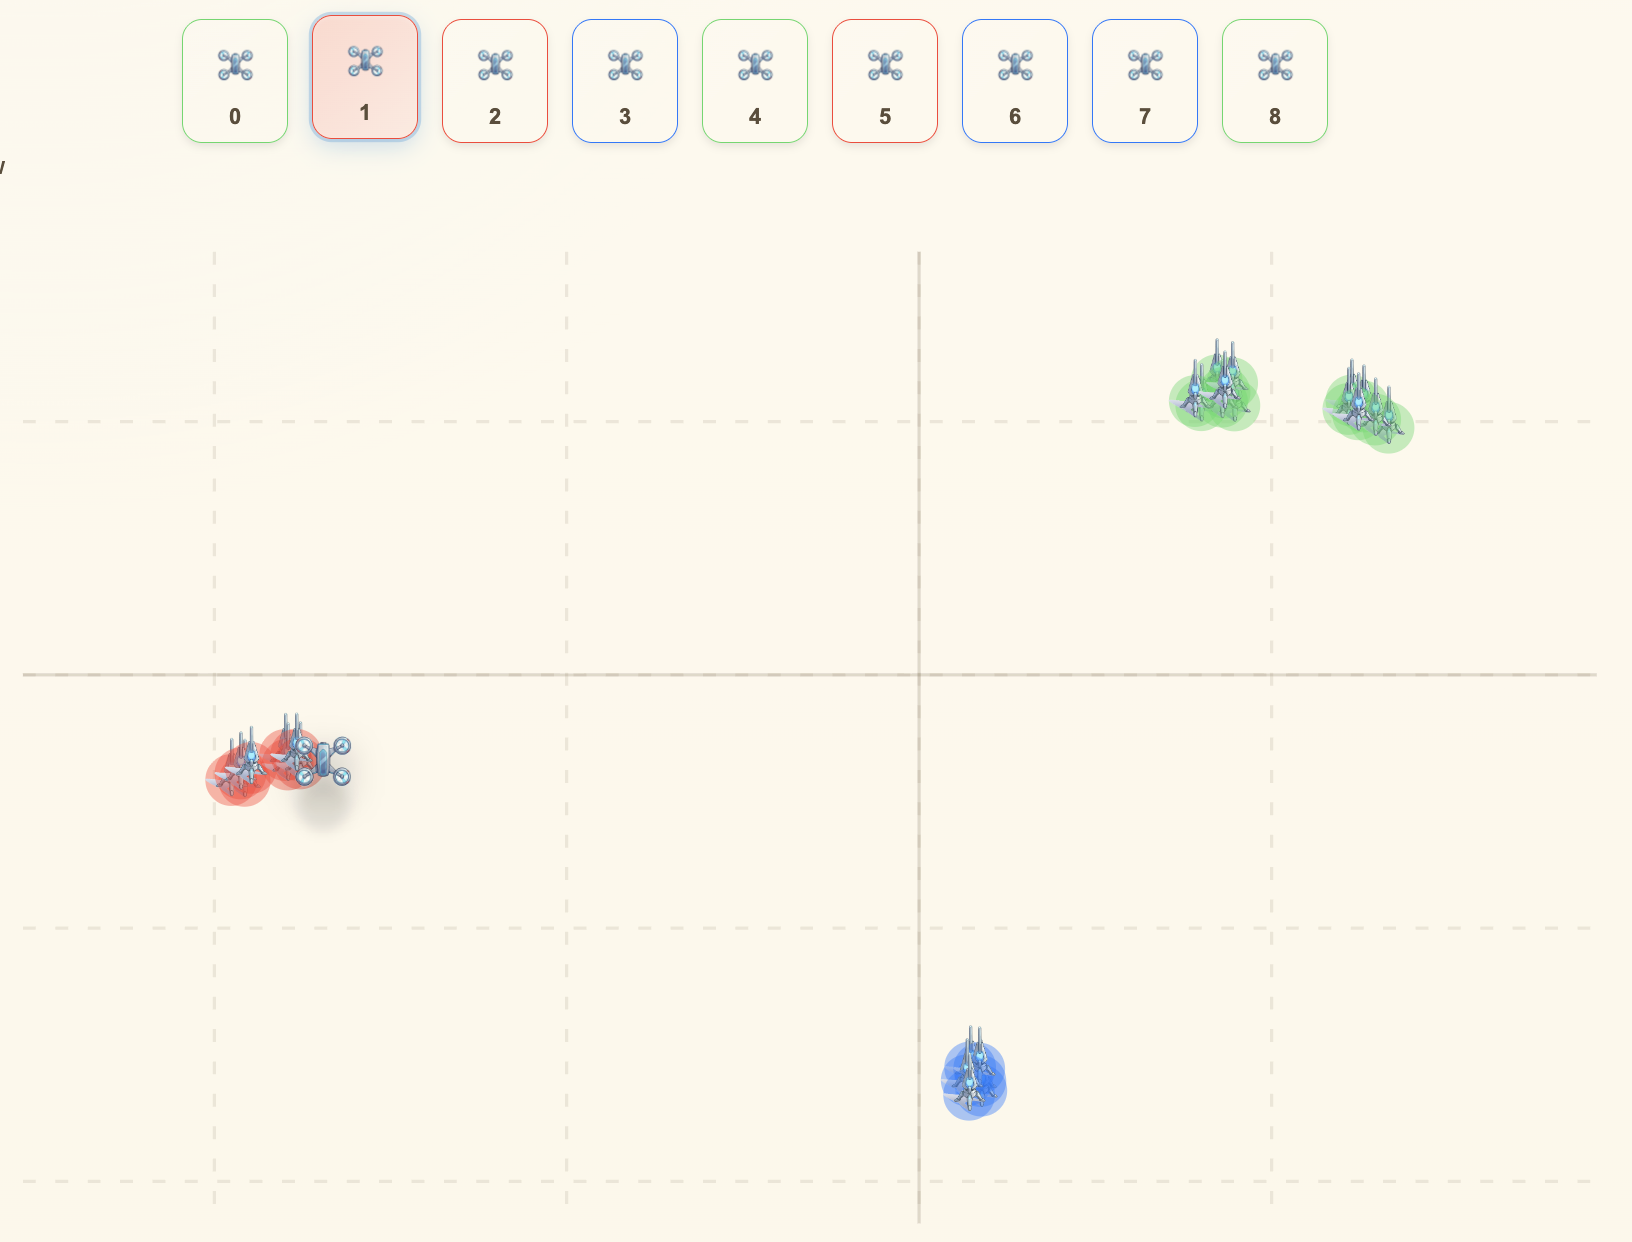
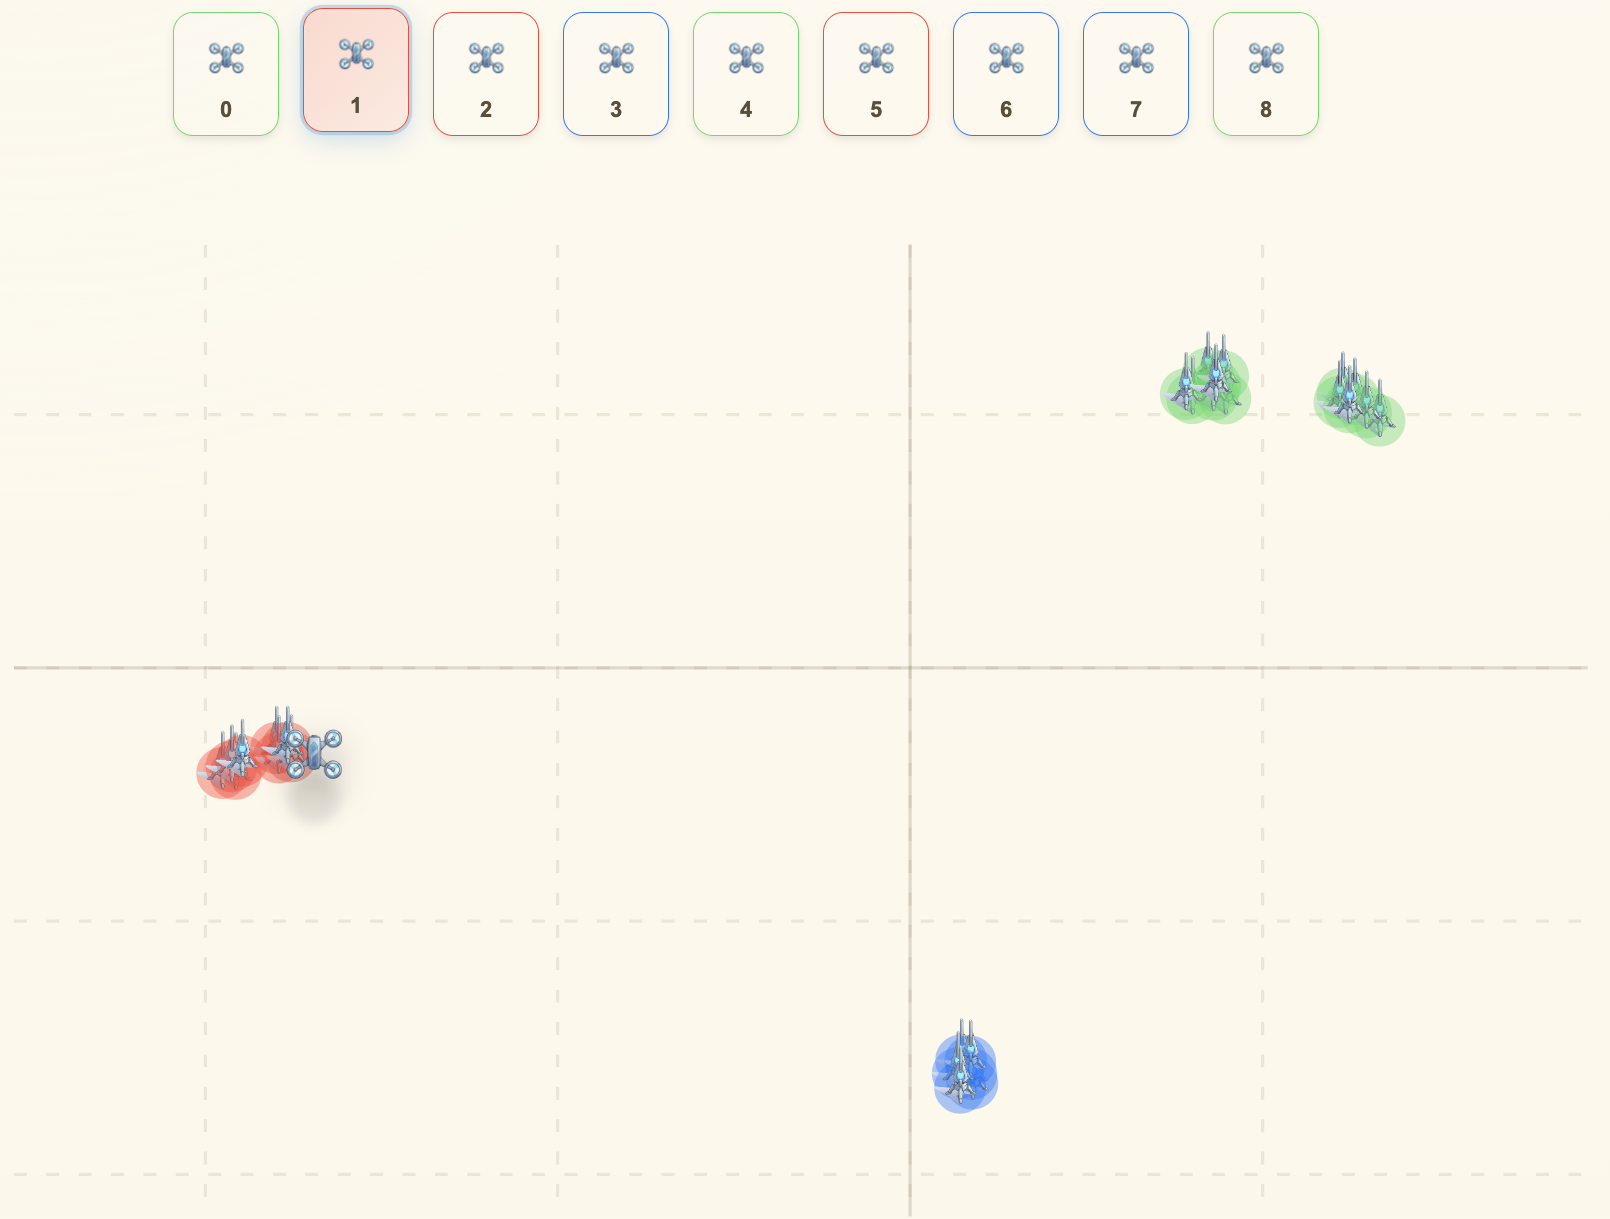
removing motivation intro part

diff --git a/tabula_viewer/public/html/framework-description.html b/tabula_viewer/public/html/framework-description.html
@@ -26,14 +26,6 @@
             This section describes the architectural design of the ZK-MRTA benchmark framework. The framework implements the formal problem definition presented in Section 3 as a reusable multi-agent environment, providing controlled latent compatibility structure while enforcing the zero-knowledge observability constraints that define the problem.
         </p>
         
-        <p>
-            The framework is designed as a configurable benchmark generator rather than a single fixed scenario. Its architecture is defined by a set of design choices governing latent-world construction, observation channels, task dynamics, reward signals, and logging support. This configurability allows the framework to represent a spectrum of hidden coordination problems, from relatively clean separable structures to more ambiguous and difficult compatibility patterns.
-        </p>
-        
-        <p>
-            A central design principle is the strict separation between the hidden environment structure and the observable signals available to policies. The environment internally maintains latent drone and target representations that govern true compatibility, but these variables are never exposed through the observation interface. Instead, agents receive only indirect evidence through interaction outcomes and public swarm behavior, forcing all inference to occur through decentralized learning from limited feedback. This section describes how that separation is maintained across the framework's components, while Section 6 will specify the particular parameter configuration used in the experiments reported in this paper.
-        </p>
-        
         <h2>5.1 Overview of the Framework</h2>
         
         <p>

diff --git a/docs/academic-paper/methods.md b/docs/academic-paper/methods.md
@@ -1,11 +1,5 @@
 # 4. Methods
 
-This section presents the decision methods evaluated in the ZK-MRTA framework. Its purpose is to describe how agents transform limited observations into task-selection actions under the zero-knowledge assumptions, while leaving simulator configuration, parameter settings, and benchmark design to the Experiments section.
-
-In this study, a strategy is understood as an algorithm that processes observations, maintains internal state when needed, and outputs task-allocation decisions. The methods considered here therefore differ primarily in two dimensions: the information used to estimate task utility, and the rule used to convert that estimate into an action.
-
-A common interface is used for all policies. At each decision step, a policy receives per-agent observations and returns one action for each agent. Learning-based methods may additionally update internal state after observing the consequences of the previous step, whereas non-learning baselines leave this update stage empty. This unified interface is important because it allows different policies to be compared under identical information constraints and interaction mechanics.
-
 ## 4.1 Methodological Framing: Estimation and Decision
 
 The methodological logic of this section is to separate each policy into an estimation component and a decision component. The estimation component determines what the agent knows, infers, or assumes about the utility of assigning itself to a target. The decision component then maps that information into a concrete action.

diff --git a/docs/academic-paper/model-problem-definition.md b/docs/academic-paper/model-problem-definition.md
@@ -1,10 +1,6 @@
 # 3. Model and Problem Definition
 
-This section provides a formal specification of the Zero-Knowledge Multi-Robot Task Allocation (ZK-MRTA) problem, defining the system model, informational constraints, and performance objectives that govern decentralized multi-agent task allocation under hidden compatibility structures.
-
-The ZK-MRTA framework extends classical task allocation by removing access to explicit cost and feasibility functions, requiring agents to infer task suitability through interaction outcomes alone. This creates a collaborative filtering problem in the multi-agent domain, where coordination must emerge from decentralized learning over shared observation histories.
-
-**Notation conventions**: We use $\mathcal{A}$ and $\mathcal{T}$ to denote the sets of agents and tasks, while $A$ and $O$ denote the action and observation spaces. Latent vectors are denoted $\mathbf{z}_i^{(a)}$ for agent $i$ and $\mathbf{z}_j^{(t)}$ for task $j$, with dimension $d$. Time is discrete and indexed by $t = 1, 2, \ldots$
+We formalize ZK-MRTA as a sequential multi-agent decision problem subject to strict informational constraints. Notation is summarized in §3.12.
 
 ## 3.1 Problem Setting
 

diff --git a/docs/academic-paper/framework-description.md b/docs/academic-paper/framework-description.md
@@ -2,10 +2,6 @@
 
 This section describes the architectural design of the ZK-MRTA benchmark framework. The framework implements the formal problem definition presented in Section 3 as a reusable multi-agent environment, providing controlled latent compatibility structure while enforcing the zero-knowledge observability constraints that define the problem.
 
-The framework is designed as a configurable benchmark generator rather than a single fixed scenario. Its architecture is defined by a set of design choices governing latent-world construction, observation channels, task dynamics, reward signals, and logging support. This configurability allows the framework to represent a spectrum of hidden coordination problems, from relatively clean separable structures to more ambiguous and difficult compatibility patterns.
-
-A central design principle is the strict separation between the hidden environment structure and the observable signals available to policies. The environment internally maintains latent drone and target representations that govern true compatibility, but these variables are never exposed through the observation interface. Instead, agents receive only indirect evidence through interaction outcomes and public swarm behavior, forcing all inference to occur through decentralized learning from limited feedback. This section describes how that separation is maintained across the framework's components, while Section 6 will specify the particular parameter configuration used in the experiments reported in this paper.
-
 ## 5.1 Overview of the Framework
 
 The proposed framework is a latent Zero-Knowledge Multi-Robot Task Allocation (ZK-MRTA) benchmark implemented as a PettingZoo `ParallelEnv`, with action and observation spaces defined through Gymnasium `spaces`. It is designed as a reusable multi-agent evaluation environment in which all agents act simultaneously at each discrete time step. Its main purpose is to provide a controlled benchmark for studying decentralized task-allocation strategies under strict information constraints, while keeping the hidden compatibility structure of the environment inaccessible to the agents. 